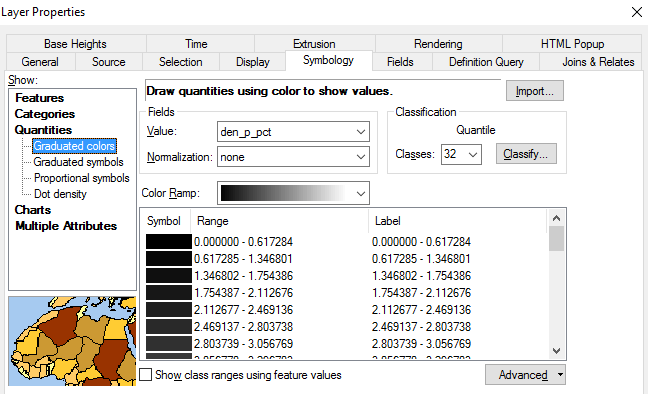
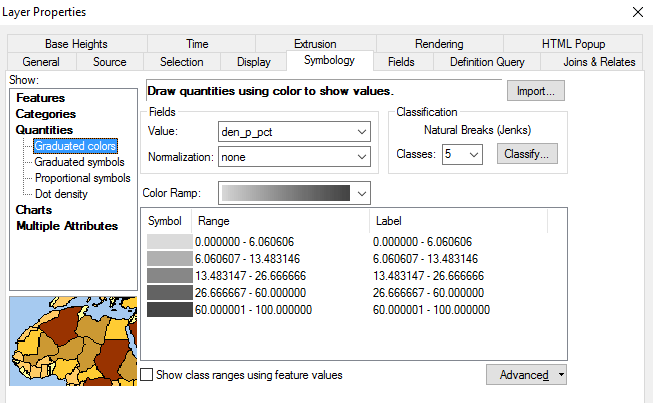
changing early steps to reflect the need to later invert the image in PS

diff --git a/PrismMaps_Procedure.md b/PrismMaps_Procedure.md
@@ -11,7 +11,7 @@ The following software packages are required:
     * *N.B., releases after 10.1 contain a still-unsolved bug (known as Bug #000085475) that prevents some users (including this one) from exporting scenes in the VRML file format. I spent two afternoons searching for a workaround, but ultimately had to downgrade my Arc installation*.
   * Rhinoceros  
   * VRay  
-  * Adobe Photoshop  
+  * Photoshop  
 
 ## 1. Symbolize and Extrude Map in ArcScene  
 
@@ -25,7 +25,7 @@ The following software packages are required:
 #### 1.2 Symbolize and Extrude Enumeration Units   
 
 ![symbology](https://raw.githubusercontent.com/designedspace/MSFF_Docs/master/Files/Media/1_2_symbology.PNG "Symbology")  
-1. Open the properties window for the layer of interest and navigate to the Symbology tab. Symbolize the variable of interest using a graduated color scheme with a black-to-white gradient. Select the maximum number of classes (32) and use the quantile classification method. Make sure to flip the symbols so that higher values receive brighter colors and to remove all symbol borders.  
+1. Open the properties window for the layer of interest and navigate to the Symbology tab. Symbolize the variable of interest using a graduated color scheme with a white-to-black gradient. Limit the number of classes to 4 or 5 and choose an appropriate classification method. Make sure that the gradient is such that higher values receive darker colors - while this appears to be the opposite of the desired result, the image will be inverted later in Photoshop, which imbues the prisms with the eerie glowing-from-the-base charachter.  
     * N.B., if you are producing a series of maps that are meant to be comparable, all maps should use the same classification scheme and this classification scheme should be based on the year with the largest range of values.
     
 ![extrusion](https://raw.githubusercontent.com/designedspace/MSFF_Docs/master/Files/Media/1_2_extrusion.PNG "Extrusion")  
@@ -63,7 +63,12 @@ The following software packages are required:
 
 ## 3. Retouch in Photoshop
 
-#### 
+#### 3.1 Add and Invert Rendered Data
+1. Open the rendered prism map, change the file to CMYK color space, and invert it (ctrl-i).
+![levels](https://raw.githubusercontent.com/designedspace/MSFF_Docs/master/Files/Media/3_1_1levels.PNG "Levels")  
+2. Using the levels tool, pull up the shadows (left-most triangle) so that it sits just below the first peak. At the end of the process, the image should look like the image below.
+![adjusted image](https://raw.githubusercontent.com/designedspace/MSFF_Docs/master/Files/Media/3_1_2adjusted.PNG "Adjusted Image")  
+3.
 
 
 
